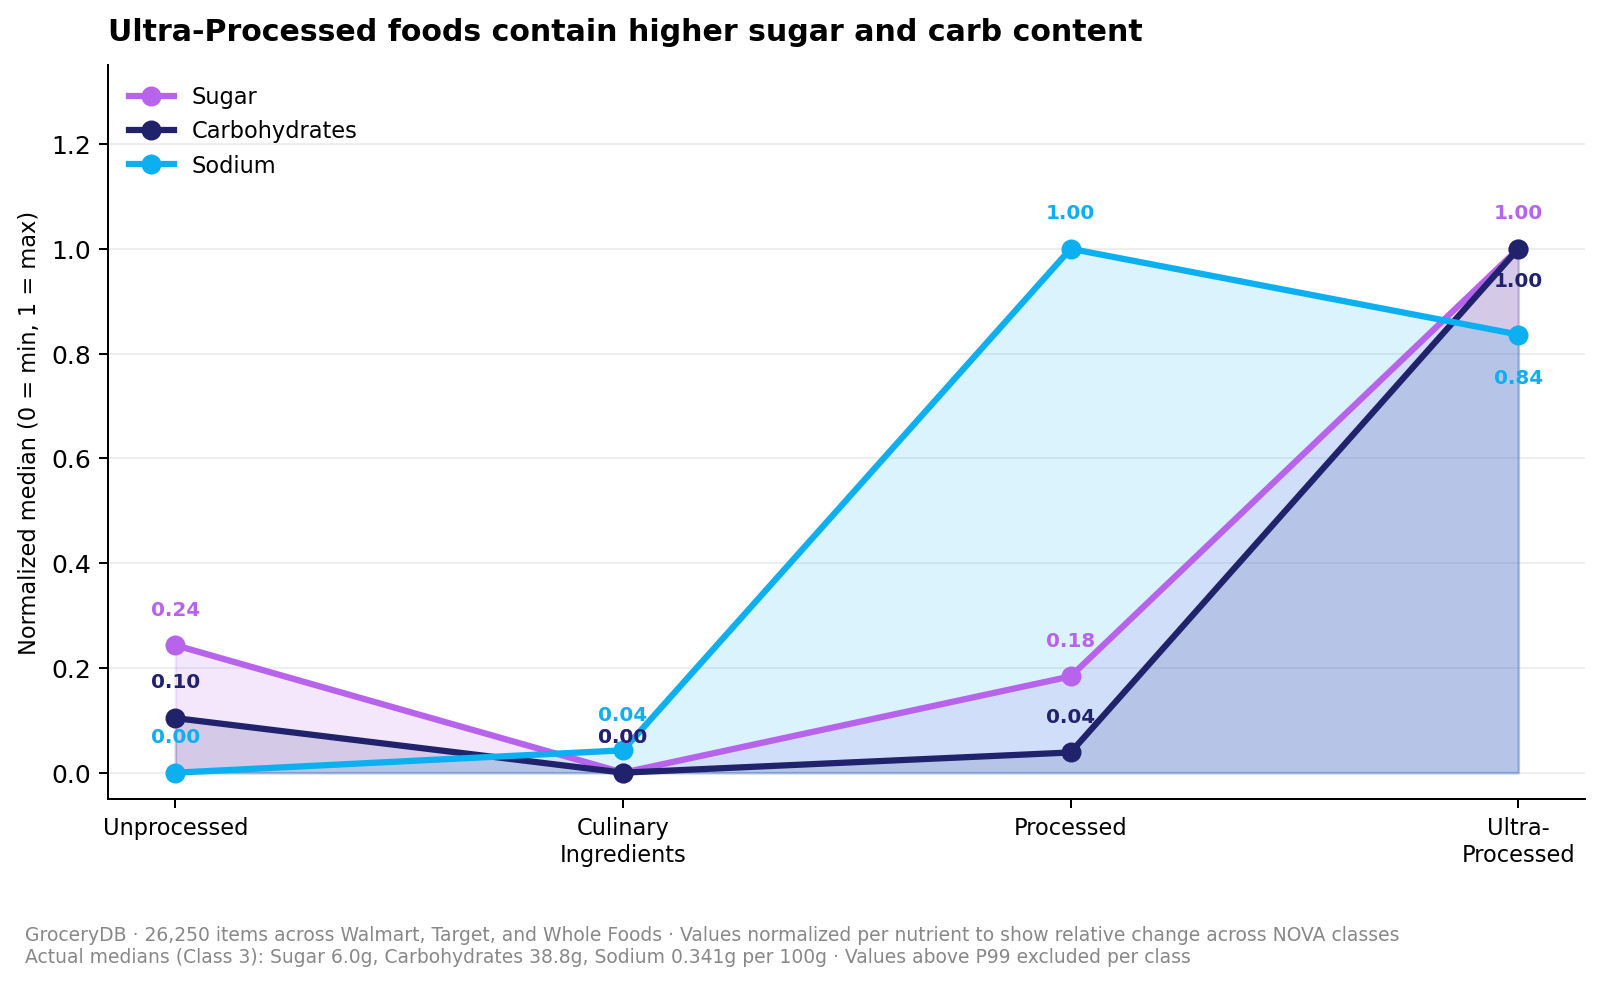
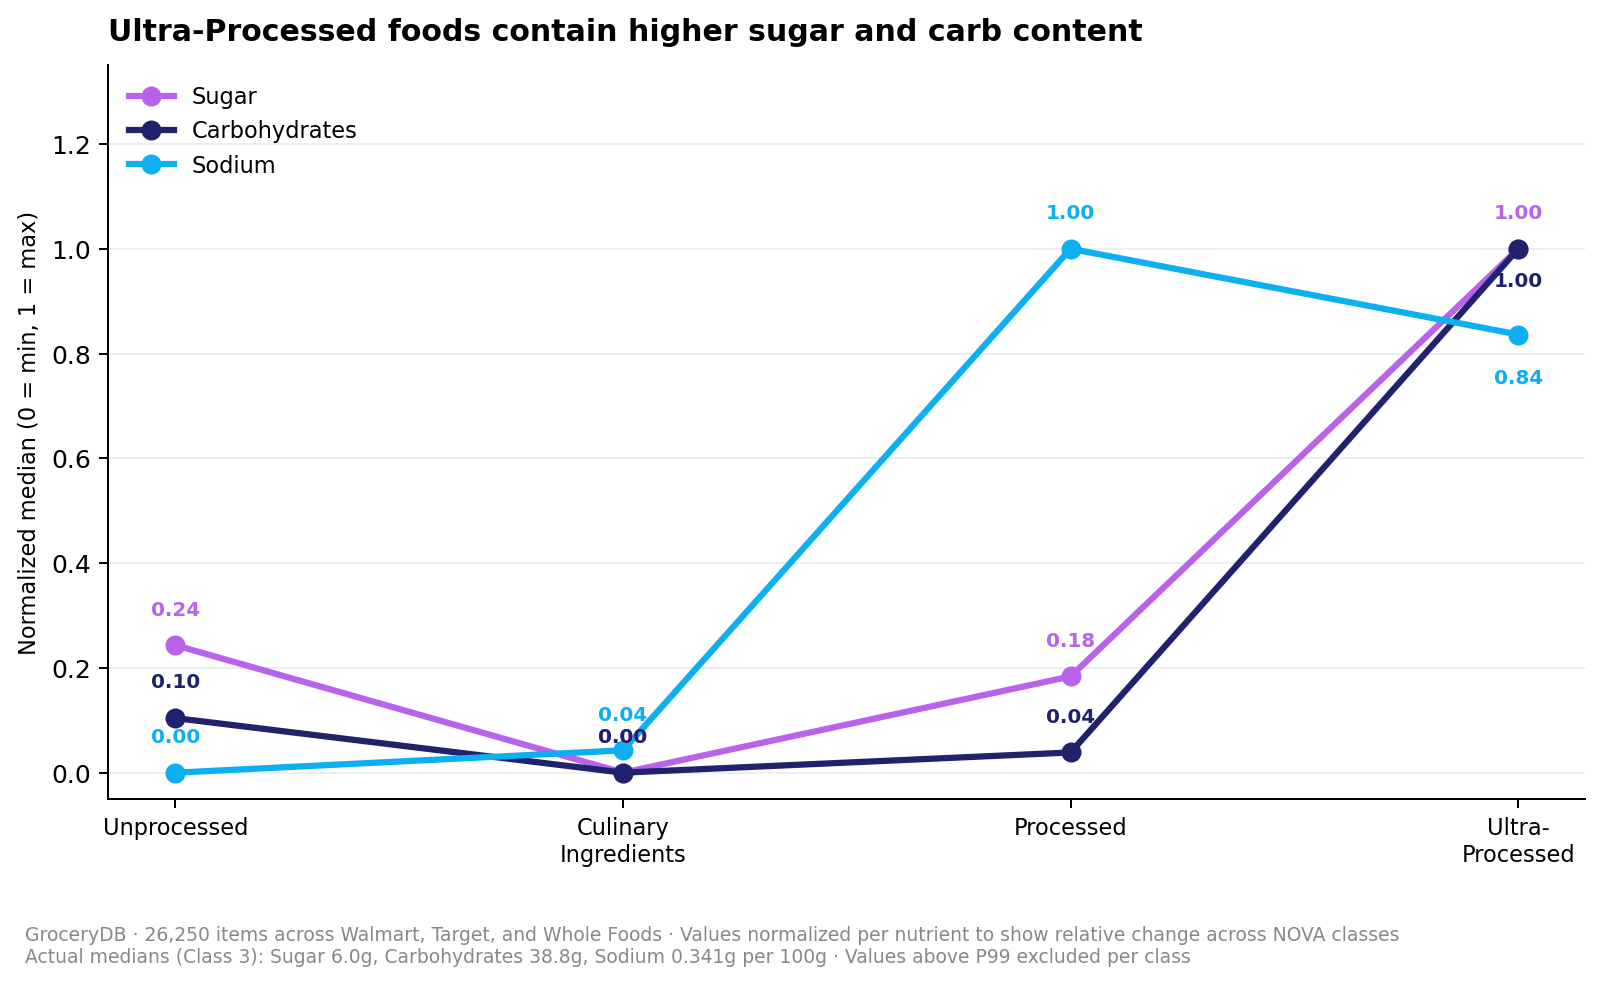
Updated graph

Changed region(s): [[0.0936, 0.2439, 0.9669, 0.7927]]

diff --git a/project 1 checkpoint.py b/project 1 checkpoint.py
@@ -4,7 +4,6 @@ import matplotlib.pyplot as plt
 
 df = pd.read_csv("/Users/echoi/Documents/GitHub/DSC106 projects/grocerydb.csv")
 
-# GRAPH 1
 CLASSES = [0, 1, 2, 3]
 LABELS = ["Unprocessed", "Culinary\nIngredients", "Processed", "Ultra-\nProcessed"]
 
@@ -31,10 +30,9 @@ for col, label, color in nutrients:
     norm = [(v - min(medians)) / (max(medians) - min(medians)) for v in medians]
     all_norms[label] = norm
 
-    ax.fill_between(range(4), norm, alpha=0.15, color=color)
+    # No fill_between — just the line
     ax.plot(range(4), norm, color=color, linewidth=2.5, marker="o", markersize=7, label=label, zorder=3)
 
-# Label points with vertical offsets to avoid overlap
 offsets = {
     "Sugar":         [0.05, 0.05, 0.05, 0.05],
     "Carbohydrates": [0.05, 0.05, 0.05, -0.08],
@@ -75,128 +73,3 @@ plt.tight_layout()
 plt.savefig("plot_nova_combined.png", dpi=180, bbox_inches="tight")
 plt.close()
 print("Saved plot_nova_combined.png")
-
-# Graph 2/3
-import matplotlib.patches as mpatches
-
-CLASSES = [0, 1, 2, 3]
-LABELS = ["Class 0\n(Unprocessed)", "Class 1\n(Culinary\nIngredients)", "Class 2\n(Processed)", "Class 3\n(Ultra-\nProcessed)"]
-COLORS = ["#B863EC", "#8AA0F7", "#20236C", "#0CAFF0"]
-
-def get_data(nutrient):
-    out = []
-    for c in CLASSES:
-        vals = df[df["FPro_class"] == c][nutrient].dropna()
-        cap = vals.quantile(0.99)
-        out.append(vals[vals <= cap].values)
-    return out
-
-# ── 3-panel boxplot ───────────────────────────────────────────────────────────
-fig, axes = plt.subplots(1, 3, figsize=(14, 6))
-fig.patch.set_facecolor("white")
-
-nutrients    = ["Sugars, total",  "Sodium",         "Carbohydrate"]
-ylabels      = ["g per 100g",     "g per 100g",     "g per 100g"]
-ylims        = [(0, 52),          (0, 2.3),         (0, 80)]
-yticks       = [10,               0.5,              20]
-dec          = [1,                3,                1]
-callout_cls  = [3,                2,                3]
-panel_titles = ["Sugar",          "Sodium",         "Carbohydrates"]
-
-for ax, nutrient, ylabel, ylim, yt, d, cc, pt in zip(
-        axes, nutrients, ylabels, ylims, yticks, dec, callout_cls, panel_titles):
-
-    data = get_data(nutrient)
-
-    med_cc = np.median(data[cc])
-    med_c0 = np.median(data[0])
-    ratio = round(med_cc / med_c0) if nutrient != "Sodium" else None
-    ct = f"Median: {med_cc:.{d}f}g\n({ratio}× unprocessed)" if ratio else "Peaks at\nprocessed foods"
-
-    bp = ax.boxplot(data, positions=range(4), widths=0.45, patch_artist=True,
-                    showfliers=False, whis=[10, 90],
-                    medianprops=dict(linewidth=2.5),
-                    whiskerprops=dict(linewidth=1.1, linestyle="--"),
-                    capprops=dict(linewidth=1.5),
-                    boxprops=dict(linewidth=1.1))
-
-    for patch, color in zip(bp["boxes"], COLORS):
-        patch.set_facecolor(color + "30")
-        patch.set_edgecolor(color)
-    for median, color in zip(bp["medians"], COLORS):
-        median.set_color(color)
-    for whisker, color in zip(bp["whiskers"], np.repeat(COLORS, 2)):
-        whisker.set_color(color)
-    for cap, color in zip(bp["caps"], np.repeat(COLORS, 2)):
-        cap.set_color(color)
-
-    for i, arr in enumerate(data):
-        med = np.median(arr)
-        ax.text(i, med + ylim[1] * 0.015, f"{med:.{d}f}g",
-                ha="center", va="bottom", fontsize=7.5,
-                color=COLORS[i], fontweight="bold")
-
-    ax.annotate(ct,
-        xy=(cc, med_cc),
-        xytext=(cc + 0.55, med_cc + ylim[1] * 0.18),
-        fontsize=7.5, color=COLORS[cc],
-        arrowprops=dict(arrowstyle="->", color=COLORS[cc], lw=1),
-        bbox=dict(boxstyle="round,pad=0.3", fc="white", ec=COLORS[cc], lw=0.8))
-
-    ax.set_ylim(ylim)
-    ax.set_xticks(range(4))
-    ax.set_xticklabels(LABELS, fontsize=8)
-    ax.set_ylabel(ylabel, fontsize=9)
-    ax.set_title(pt, fontsize=10, fontweight="bold", pad=6)
-    ax.yaxis.set_major_locator(plt.MultipleLocator(yt))
-    ax.grid(axis="y", color="#eeeeee", linewidth=0.8, zorder=0)
-    ax.set_axisbelow(True)
-    ax.spines["top"].set_visible(False)
-    ax.spines["right"].set_visible(False)
-
-fig.suptitle("Ultra-processed foods are engineered around sugar and carbohydrates, not just fat",
-             fontsize=13, fontweight="bold", x=0.02, ha="left", y=1.01)
-fig.text(0.02, -0.04,
-    "GroceryDB · 26,250 items across Walmart, Target, and Whole Foods · "
-    "Boxes = IQR · Whiskers = P10–P90 · Values above P99 excluded per class",
-    fontsize=7.5, color="#888888")
-patches = [mpatches.Patch(color=COLORS[i], label=LABELS[i].replace("\n", " ")) for i in range(4)]
-fig.legend(handles=patches, fontsize=8.5, frameon=False,
-           loc="upper right", bbox_to_anchor=(1.0, 1.02), ncol=2)
-plt.tight_layout()
-plt.savefig("plot_nova_nutrients.png", dpi=180, bbox_inches="tight")
-plt.close()
-print("Saved plot_nova_nutrients.png")
-
-# ── Individual sugar area chart ───────────────────────────────────────────────
-col, ylabel, fname, color = "Sugars, total", "Sugar (g per 100g)", "plot_sugar.png", "#B863EC"
-medians = []
-for c in CLASSES:
-    vals = df[df["FPro_class"] == c][col].dropna()
-    cap = vals.quantile(0.99)
-    medians.append(np.median(vals[vals <= cap]))
-
-fig, ax = plt.subplots(figsize=(7, 5))
-fig.patch.set_facecolor("white")
-ax.fill_between(range(4), medians, alpha=0.2, color=color)
-ax.plot(range(4), medians, color=color, linewidth=2.5, marker="o", markersize=7, zorder=3)
-for i, med in enumerate(medians):
-    ax.text(i, med + max(medians) * 0.03, f"{med:.2f}g",
-            ha="center", va="bottom", fontsize=9, color=color, fontweight="bold")
-ax.set_title("Sugar content spikes in ultra-processed foods",
-             fontsize=12, fontweight="bold", loc="left", pad=10)
-ax.set_xticks(range(4))
-ax.set_xticklabels(["Unprocessed", "Culinary\nIngredients", "Processed", "Ultra-\nProcessed"], fontsize=9)
-ax.set_ylabel(ylabel, fontsize=10)
-ax.set_ylim(0, max(medians) * 1.3)
-ax.grid(axis="y", color="#eeeeee", linewidth=0.8)
-ax.set_axisbelow(True)
-ax.spines["top"].set_visible(False)
-ax.spines["right"].set_visible(False)
-fig.text(0.12, -0.03,
-    "GroceryDB · 26,250 items · Median sugar per NOVA class · Values above P99 excluded",
-    fontsize=7.5, color="#888888")
-plt.tight_layout()
-plt.savefig("plot_sugar.png", dpi=180, bbox_inches="tight")
-plt.close()
-print("Saved plot_sugar.png")
